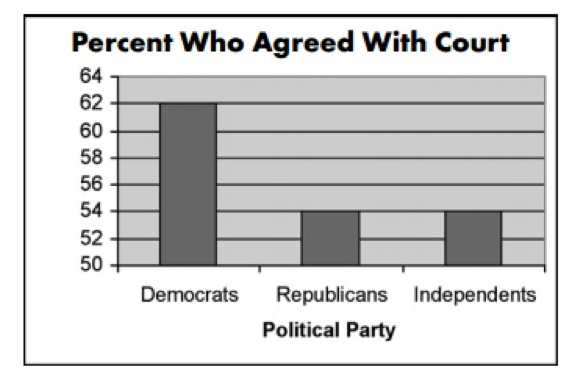
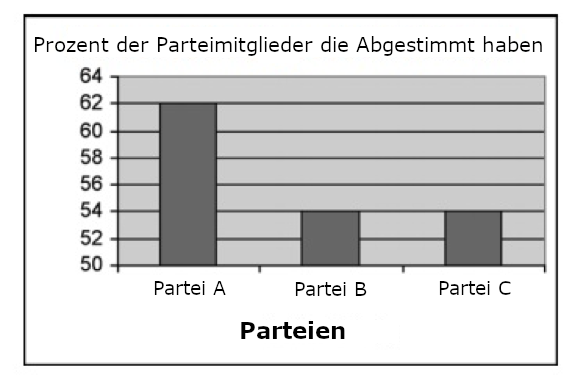
final version

diff --git a/source_code/src/new_main.js b/source_code/src/new_main.js
@@ -51,6 +51,7 @@ var yAxisData;        //2d array containing all y-axis in ascending order [y-axi
 
 //data needed to draw the graphs
 var chartGraphData;
+var chartType;
 var detectedFeatures = {        //object represents all detectable misleading features; default is false but elements are arrays so that features can store necessary data for drawing of the charts
     "truncatedY": [false],
     "invertedY": [false],
@@ -106,12 +107,14 @@ function helpButtonClicked() {
 function toggleButtonClicked() {
     var originalImage = document.getElementById("original-image");
     var controlChart = document.getElementById("controlSVG");
-    if (originalImage.style.display === "none") {
-        originalImage.style.display = "block";
-        controlChart.style.display = "none";
-    } else {
-        originalImage.style.display = "none";
-        controlChart.style.display = "block";
+    if (chartType === 'line') { // this is only here because bar charts dont work properly yet
+        if (originalImage.style.display === "none") {
+            originalImage.style.display = "block";
+            controlChart.style.display = "none";
+        } else {
+            originalImage.style.display = "none";
+            controlChart.style.display = "block";
+        }
     }
 }
 
@@ -244,6 +247,7 @@ function processBackendData(backendData) {
     chartGraphData = JSON.stringify(backendData['graphData']);
     chartGraphData = JSON.parse(chartGraphData);
     //console.log(chartGraphData); //debug
+    chartType = backendData['chart_type'];  //line or bar
     detectedFeatures = backendData['detectedFeatures'];
 }
 
@@ -391,7 +395,7 @@ function drawBarChart(parentDiv, controlChart = false, hidden = false) {
         .attr('style',display)
         .html(`
         <table class="graph" >
-            <caption>Prozent die Abgestimmt haben</caption>
+            <caption>Prozent der Parteimitglieder die Abgestimmt haben</caption>
             <thead>
                 <tr>
                     <th scope="col">Item</th>

diff --git a/source_code/chartchecker_sample_charts/index.html b/source_code/chartchecker_sample_charts/index.html
@@ -128,9 +128,27 @@ img {
 
 <script>
 
+  function shuffle(array) {
+    let currentIndex = array.length,  randomIndex;
+
+    // While there remain elements to shuffle.
+    while (currentIndex > 0) {
+
+      // Pick a remaining element.
+      randomIndex = Math.floor(Math.random() * currentIndex);
+      currentIndex--;
+
+      // And swap it with the current element.
+      [array[currentIndex], array[randomIndex]] = [
+        array[randomIndex], array[currentIndex]];
+    }
+
+    return array;
+  }
+
   let slideIndex = 1;
 
-  const IMAGES = ['stand_your_ground.jpg', 'LakeMeadCase.png','sunspots_smooth.png']
+  const IMAGES = shuffle(['1.png', '2.png','AspectRatio2.png', 'InvertedAxis.png', 'Positiv1.png', 'TruncatedAxisBARCHART.png'])
 
   function populateSlidesStandard(arr) {
     var doc = document.getElementById('slideshow');

diff --git a/source_code/stylesheets/analyze.css b/source_code/stylesheets/analyze.css
@@ -1764,7 +1764,7 @@ body, table, input, select, textarea {
 	@media (min-width:32em) {
 
 		.graph {
-            width:500px;
+            width:90%;
             height:200px;
 		}
 
@@ -1833,7 +1833,7 @@ body, table, input, select, textarea {
 			position:absolute;
 			top:-3em;
 			left:0;
-			width:100%;
+			width:80%;
 			font-weight:normal;
 			text-align:center;
             white-space:nowrap;

diff --git a/source_code/src/rightclicker.js b/source_code/src/rightclicker.js
@@ -1,6 +1,6 @@
 // define all possible services
-const allServices = ['auto','manual'];
-//const allServices = ['auto'];
+//const allServices = ['auto','manual'];
+const allServices = ['auto'];
 //const allServices = ['manual'];
 
 
